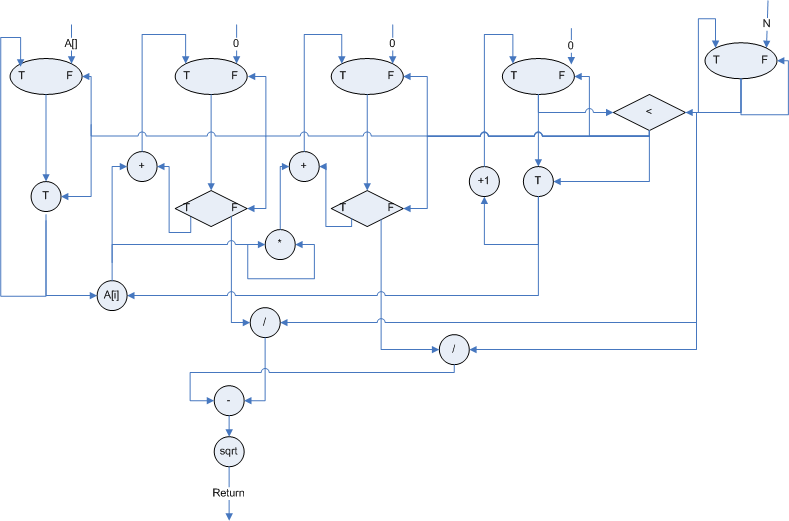
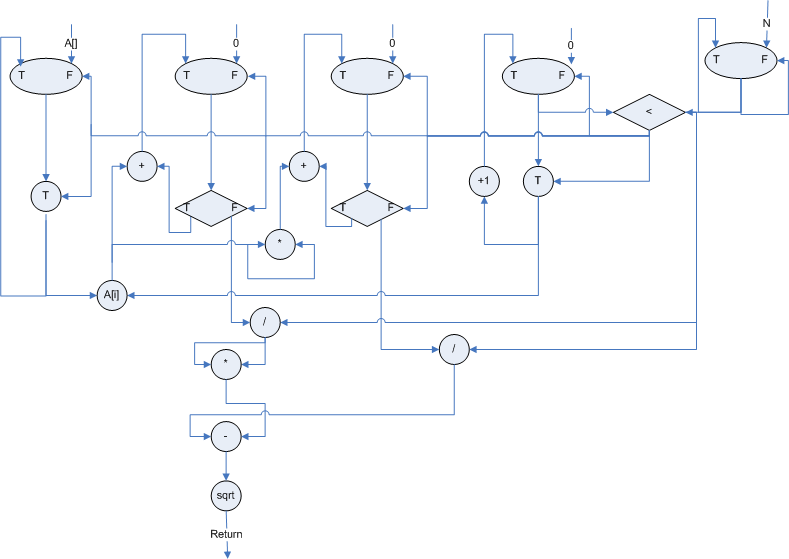
finish section-Dataflow

diff --git a/homework/6/report/main.tex b/homework/6/report/main.tex
@@ -15,15 +15,47 @@ xliu@ece.udel.edu}
 Write a dataflow program that receives a token that contains an 
 array with N numbers and produces these outputs:
 \begin{enumerate}
+\item The average of the numbers.
+\item The standard deviation of the numbers.
+\item The median of the numbers.
 \end{enumerate}
 \subsection{Average}
 \begin{figure}[h!]
 	\begin{center}
-		\includegraphics[width=1.0\textwidth, angle=0]{average.png}
-		\caption{\label{fig:png}Dataflow Program of Array Average}
+		\includegraphics[width=1.1\textwidth, angle=0]{average.png}
+		\caption{\label{fig:average}Dataflow Program: Average of An Array}
 	\end{center}
 \end{figure}
+\begin{equation}
+\textsc{Average} = \frac{1}{N}\sum_{i=1}^{N}A[i]
+\end{equation}
+
 \subsection{Standard Deviation}
+\begin{figure}[h!]
+	\begin{center}
+		\includegraphics[width=1.1\textwidth, angle=0]{std-deviation.png}
+		\caption{\label{fig:std-deviation}Dataflow Program: Standard Deviation of An Array}
+	\end{center}
+\end{figure}
+\begin{equation}
+\textsc{Average} = \bar{A} =  \frac{1}{N}\sum_{i=1}^{N}A[i]
+\end{equation}
+\begin{align}
+\textsc{StandardDeviation} &= \sqrt{\frac{1}{N}\sum_{i=1}^{N}(A[i]-\bar{A})^{2}} \nonumber\\
+&= \sqrt{\frac{1}{N}(\sum_{i=1}^{N}A[i]^{2})-\bar{A}^{2}}
+\end{align}
+
+\subsection{Median}
+\begin{figure}[h!]
+	\begin{center}
+		\includegraphics[width=1.1\textwidth, angle=0]{median.png}
+		\caption{\label{fig:median}Dataflow Program: Median of An Array}
+	\end{center}
+\end{figure}
+The strategy of this program: from the beginning of the array, for each
+element, count how many elements are less than the current one. If there 
+are $\frac{N}{2}$ elements less than it, the current element is the median 
+of the array.
 
 \end{document}
 
